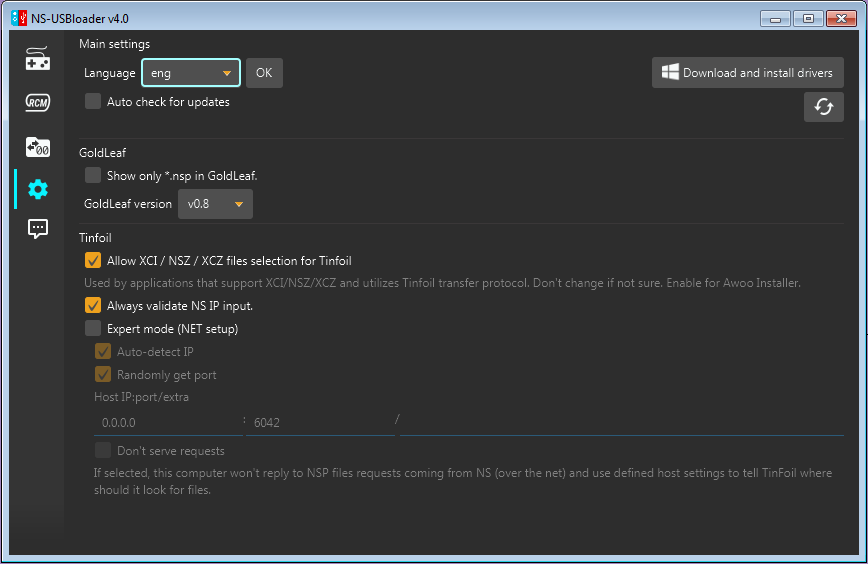
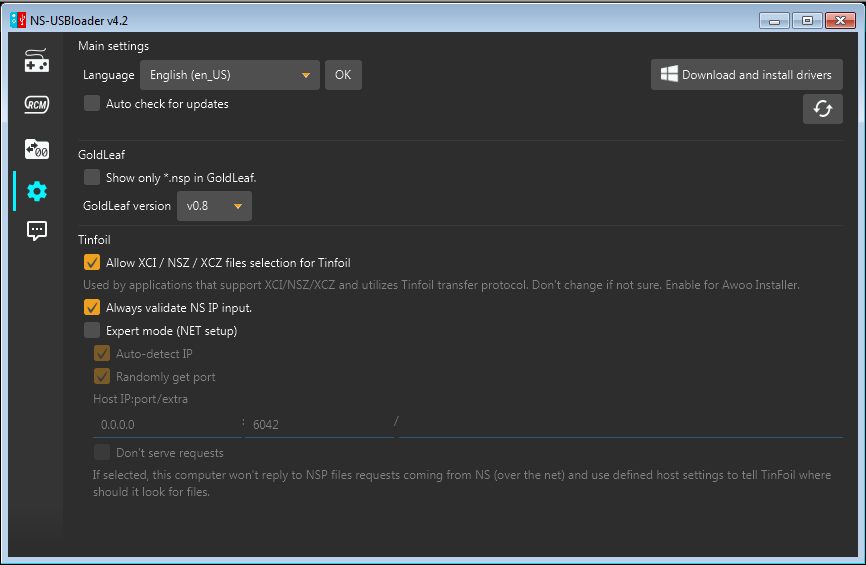
Add Czech Translation by @spenaat #67 and Traditional Chinese translation by @qazrfv1234 #68 Update readme Add new settings screenshot

diff --git a/README.md b/README.md
@@ -46,6 +46,8 @@ Sometimes I add new posts about this project [on my home page](https://developer
 * Chinese by [Huang YunKun (htynkn)](https://github.com/htynkn)
 * German by [Swarsele](https://github.com/Swarsele)
 * Vietnamese by [Hai Phan Nguyen (pnghai)](https://github.com/pnghai)
+* Czech by [Spenaat](https://github.com/spenaat)
+* Chinese (Traditional) by [qazrfv1234](https://github.com/qazrfv1234)
 
 ### System requirements
 
